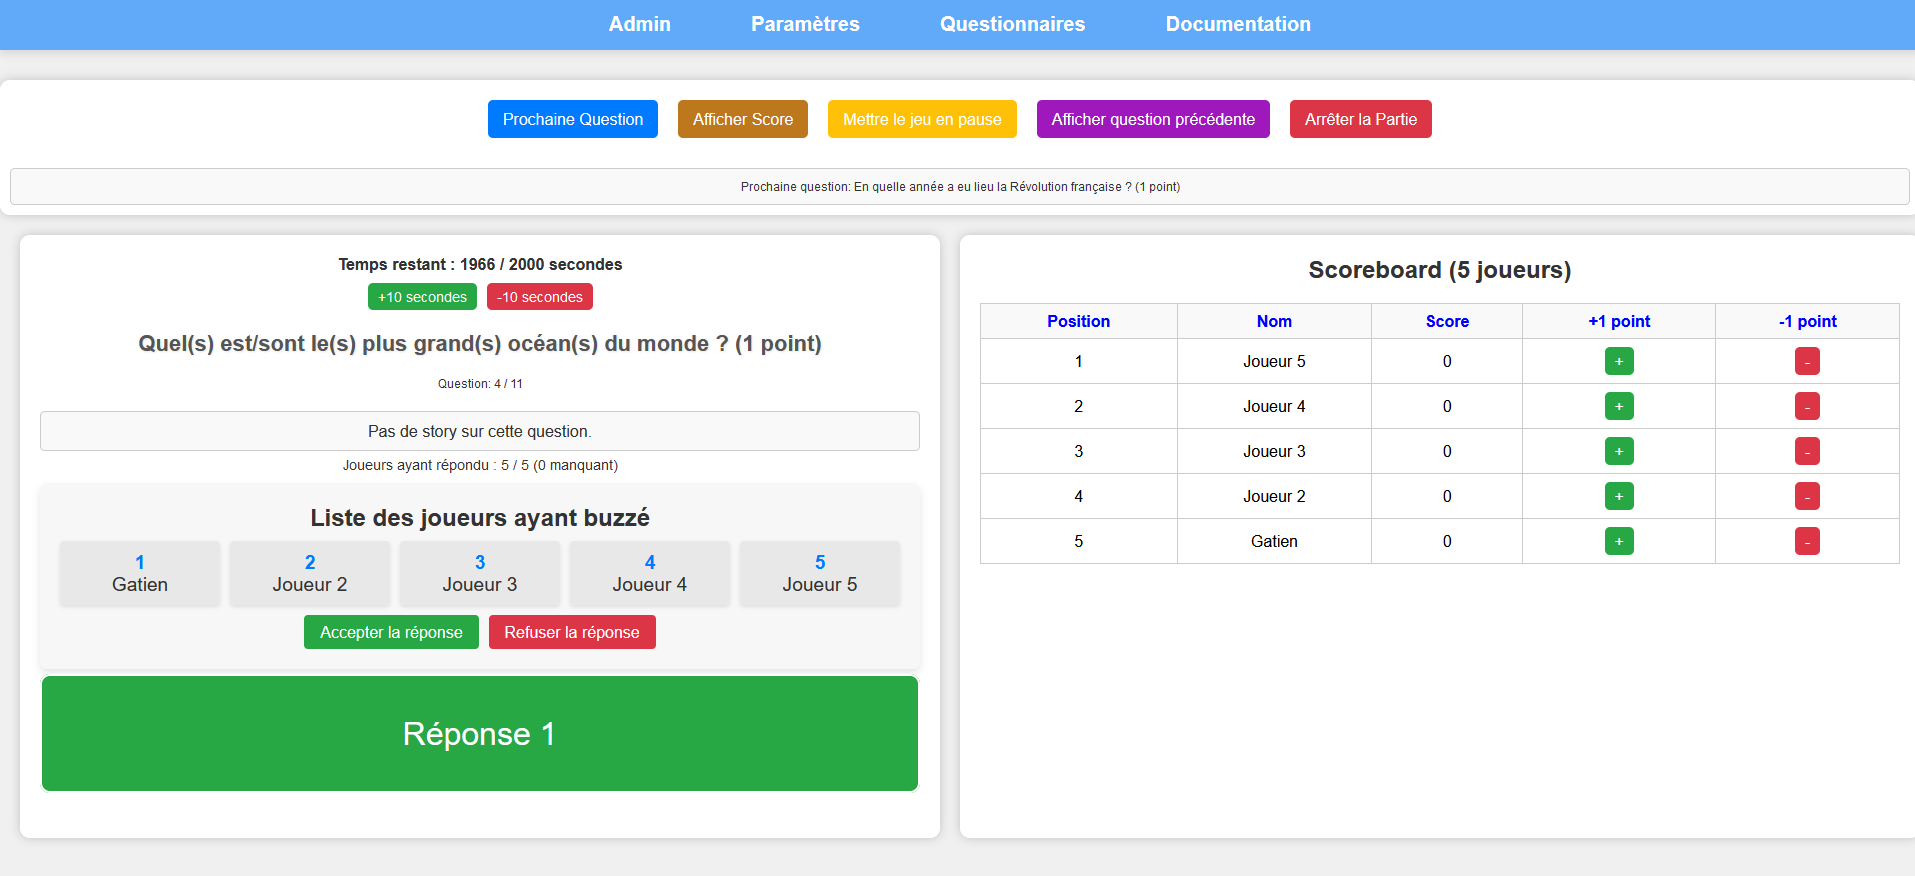
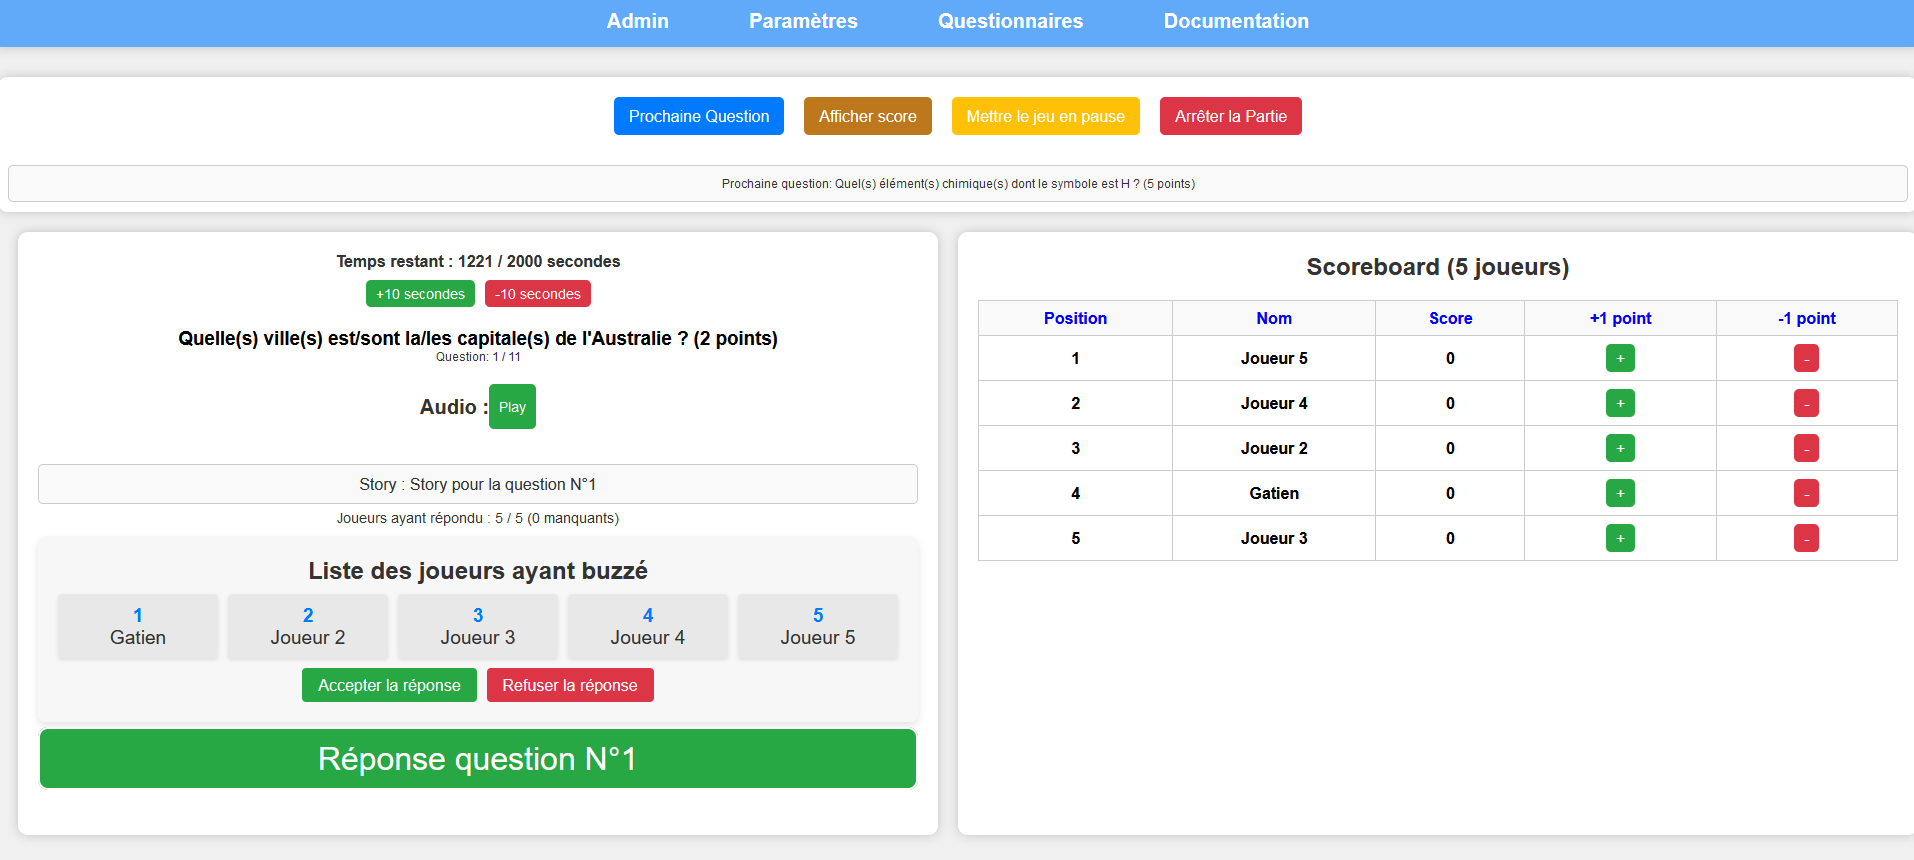
Ajout bouton gestion musique côté animateur

diff --git a/docs/mode_buzzer/buzzer.rst b/docs/mode_buzzer/buzzer.rst
@@ -118,6 +118,9 @@ L'interface board est découpée de la sorte :
 * Affichage de la question
 * Liste des joueurs en file d'attente. Il sont dans l'ordre du premier au dernier ayant buzzé
 
+.. note::
+   Si une musique est configurée pour cette question, elle sera diffusée jusqu'à ce qu'un joueur soit en file d'attente.
+
 Le joueur en jaune est donc celui qui doit répondre à la question, tandis que le joueur en dessous doit se préparer à répondre si le premier à faux.
 
 Si l'animateur refuse la question d'un joueur, son pseudo apparaîtra brièvement en rouge, et le joueur du dessous passera en jaune : 
@@ -180,6 +183,11 @@ Maintenant, focalisons nous sur la partie de gestion de la question courante :
 * Affichage du temps restant, avec deux boutons pour ajouter ou retirer du temps
 * La question en cours
 * L'index de la question et le nombre total de question
+* La gestion de l'audio si une audio est configurée pour cette question :
+   * Lorsque qu'un joueur est en file d'attente, la musique s'arrête
+   * Si les réponses des joueurs en file d'attente ont été refusé, la musique reprend
+   * Un bouton est la pour remettre/arrêter la musique manuellement
+   * La musique est jouée sur le board est sur le panel animateur.
 * Une story (histoire) sur cette question
 * Le nombre de joueur ayant répondu / le nombre total de joueur (et le nombre de joueur manquant)
 * La liste des joueurs ayant buzzé, à gauche celui qui a buzzé en premier

diff --git a/docs/mode_qcm/qcm.rst b/docs/mode_qcm/qcm.rst
@@ -120,6 +120,9 @@ L'interface board est découpée de la sorte :
 * Barre défilante du temps restant
 * Affichage de la question
 * Affichage des réponses
+  
+.. note::
+   Si une musique est configurée pour cette question, elle sera diffusée jusqu'à la fin de l'extrait ou jusqu'à temps que l'animateur stoppe la musique.
 
 Lorsque le temps est écoulé, que tout les joueurs ont répondu à la question (:ref:`si le passage automatique à la prochaine question est sélectionnée <panel-animateur_parametre-qcm-prochaine_question>`), ou que l'animateur
 a choisi de passer à la prochaine question, nous voyons ceci côté board : 
@@ -170,6 +173,7 @@ Maintenant, focalisons nous sur la partie de gestion de la question courante :
 * Affichage du temps restant, avec deux boutons pour ajouter ou retirer du temps
 * La question en cours
 * L'index de la question et le nombre total de question
+* La gestion de l'audio si une audio est configurée pour cette question. Un bouton est la pour remettre/arrêter la musique manuellement. La musique est jouée sur le board est sur le panel animateur.
 * Une story (histoire) sur cette question
 * Le nombre de joueur ayant répondu / le nombre total de joueur (et le nombre de joueur manquant)
 * L'affichage des réponses

diff --git a/docs/jeu_etat.rst b/docs/jeu_etat.rst
@@ -224,6 +224,9 @@ Le mode *Pause* fige le jeu temporairement.
 |                      | du temps.                                  |
 +----------------------+--------------------------------------------+
 
+.. tip::
+   Si une musique était diffusée pour cette question, elle sera stoppée jusqu'à la reprise du jeu.
+
 .. figure:: /panel_animateur/_images/etat/pause.png
    :alt: Panel animateur - Pause
    :align: center
